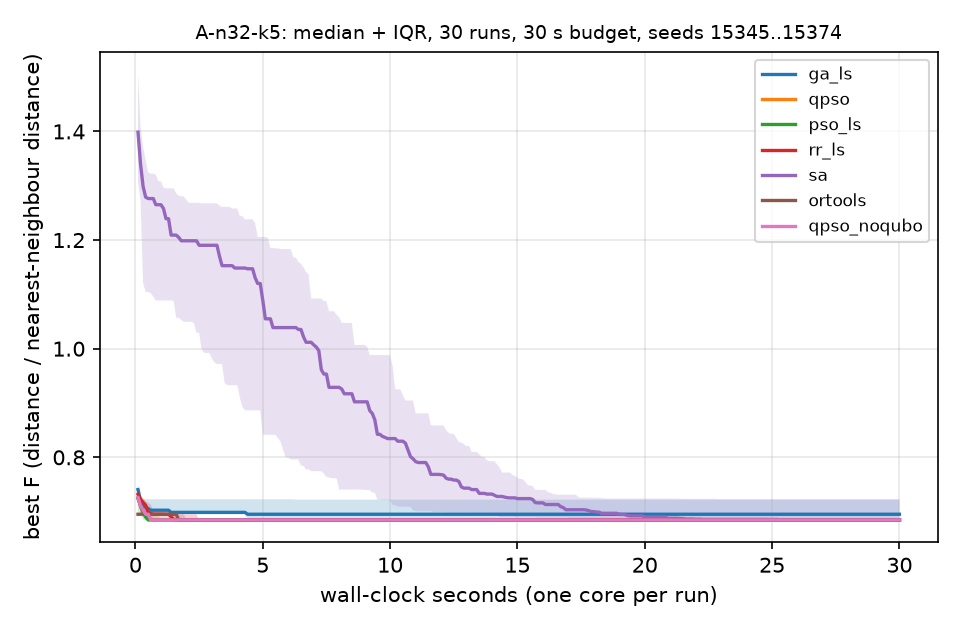
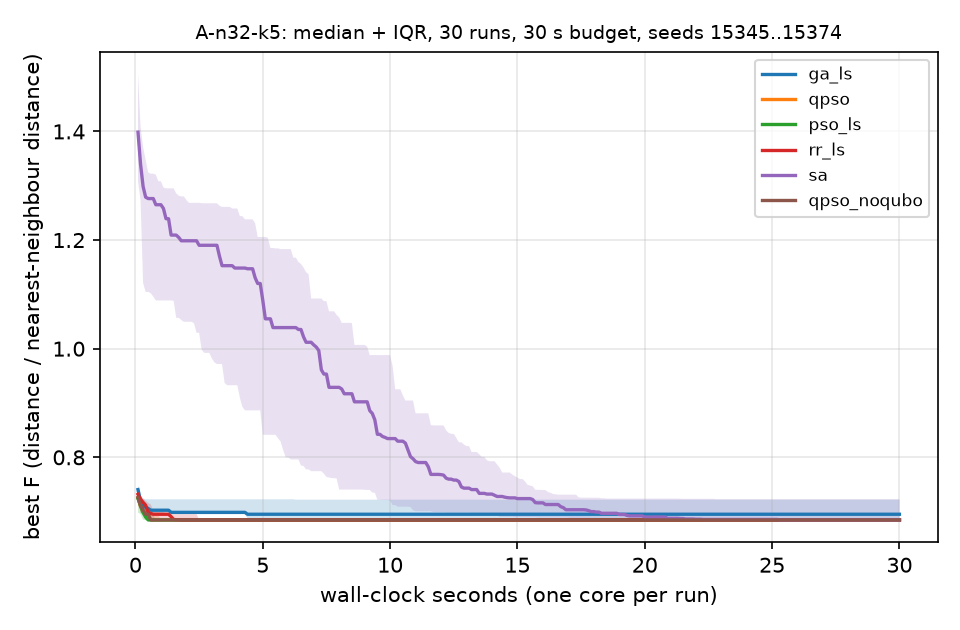
D58 headline = confirm_d54; v1 stats recomputed without the OR-Tools rows; runner-only rule documented; summary rewritten (scaling_v2 pending)

Changed region(s): [[0.1562, 0.8143, 0.9375, 0.8444], [0.7812, 0.3016, 0.9688, 0.3921], [0.125, 0.7841, 0.1562, 0.8143]]

diff --git a/backend/app/services/results_service.py b/backend/app/services/results_service.py
@@ -19,11 +19,20 @@ FILE_TYPES = {".png": "image/png", ".svg": "image/svg+xml", ".csv": "text/csv", 
 
 
 # Benchmark Studio opens the first item: headline first, then the supporting experiments.
-ORDER = ["bench_core_v1", "p_small", "ablation", "ablation_evals", "alpha_sweep", "scaling"]
+ORDER = ["confirm_d54", "bench_core_v1", "p_small", "scaling_v2", "ablation", "ablation_evals", "alpha_sweep"]
 MERGED = {"bench_core_v1_noqubo": "bench_core_v1"}      # supplementary rows shown inside another table (D45)
+SUPERSEDED = {"scaling": "scaling_v2"}                   # D57: mixed CPU conditions; replaced
+# D57/D58: rows that ran under different CPU conditions from the rest of their table are not served
+EXCLUDED_ROWS = {"bench_core_v1": {"ortools": "OR-Tools rows re-run at full speed after D55 while the other rows "
+                                              "ran throttled (D57); OR-Tools is compared in confirm_d54 instead"}}
+TITLES = {"confirm_d54": "Headline (D58): equal conditions, new seeds, 30 runs, Holm-corrected",
+          "bench_core_v1": "v1: QPSO-noQUBO (adaptive alpha) vs metaheuristics, all rows under equal throttling",
+          "scaling_v2": "Scaling: QPSO-noQUBO (tuned) vs OR-Tools, equal conditions"}
 
 
 def kind_of(name: str) -> str:
+    if name in SUPERSEDED and (TABLES / f"{SUPERSEDED[name]}_summary.csv").exists():
+        return f"superseded (by {SUPERSEDED[name]})"
     if name in MERGED:
         return f"supplement (merged into {MERGED[name]})"
     if name.startswith("d51_"):
@@ -49,7 +58,7 @@ def list_benchmarks(include_all: bool = False) -> list[dict]:
         if not include_all and kind_of(name) != "benchmark":
             continue
         meta = _meta(name)
-        out.append({"name": name, "title": meta.get("description") or name, "kind": kind_of(name),
+        out.append({"name": name, "title": TITLES.get(name) or meta.get("description") or name, "kind": kind_of(name),
                     "runs": meta.get("runs_planned"), "budgets": meta.get("budgets"), "records": meta.get("records")})
     return out
 
@@ -67,6 +76,9 @@ def benchmark(name: str) -> dict:
         raise ApiError(404, "NOT_FOUND", f"benchmark {name} not found")
     meta = _meta(name)
     summary = pd.read_csv(summ)
+    excluded = EXCLUDED_ROWS.get(name, {})
+    if excluded:
+        summary = summary[~summary.algo.isin(list(excluded))].reset_index(drop=True)
     refs = meta.get("references") or [meta.get("reference", "qpso")]
     for k, ref in enumerate(refs):
         wil = TABLES / (f"{name}_wilcoxon.csv" if k == 0 else f"{name}_wilcoxon_{ref}.csv")
@@ -92,16 +104,21 @@ def benchmark(name: str) -> dict:
                                for r in summary.itertuples()]
     out = {"table": _records(summary),
            "figures": [f"figures/{p.name}" for p in sorted(FIGURES.glob(f"{name}_*.png"))],
-           "meta": {**meta, "kind": kind_of(name), "runs": meta.get("runs_planned"),
+           "meta": {**meta, "kind": kind_of(name), "runs": meta.get("runs_planned"), "excluded_rows": excluded,
                     "budget": ", ".join(f"{b:g} {'s' if t == 'time' else 'evals'}"
                                         for t, b in sorted(set(zip(summary.budget_type, summary.budget))))}}
     for extra in ("wilcoxon", "friedman", "chain", *[f"wilcoxon_{r}" for r in refs[1:]]):
         p = TABLES / f"{name}_{extra}.csv"
         if p.exists() and p.stat().st_size > 1:
             try:
-                out[extra] = _records(pd.read_csv(p))
+                t = pd.read_csv(p)
             except pd.errors.EmptyDataError:
                 out[extra] = []
+                continue
+            for col in ("other", "algo"):           # keep excluded rows out of the side tables too
+                if col in t and excluded:
+                    t = t[~t[col].isin(list(excluded))]
+            out[extra] = _records(t)
     return out
 
 

diff --git a/scripts/run_bench.py b/scripts/run_bench.py
@@ -42,6 +42,10 @@ def report(exp: dict, runs_dir: Path = RUNS, tables: Path = TABLES, figures: Pat
                  and r["algo"] in imp.get("algorithms", [r["algo"]])]
         bad += [r for r in read_records(runs_dir / f"{imp['exp']}.infeasible.jsonl")
                 if r["instance"] in imp.get("instances", [r["instance"]])]
+    excl = set(exp.get("exclude_algos") or [])         # D58: rows run under other CPU conditions (D57)
+    if excl:
+        recs = [r for r in recs if r["algo"] not in excl]
+        bad = [r for r in bad if r["algo"] not in excl]
     if not recs:
         raise SystemExit(f"no records in {runs_dir / f'{name}.jsonl'}")
     df = stats.to_frame(recs)
@@ -81,6 +85,7 @@ def report(exp: dict, runs_dir: Path = RUNS, tables: Path = TABLES, figures: Pat
         "budgets": [{"type": b["type"], "value": b["value"], "algorithms": b["algorithms"]} for b in exp["budgets"]],
         "instances": exp["instances"],
         "import_runs": exp.get("import_runs") or [],
+        "excluded_algos": sorted(excl),
         "seeds": sorted({int(r["seed"]) for r in recs}),
         "config_hashes": {f"{a}|{bt}|{b:g}": sorted(g.config_hash.unique().tolist())
                           for (a, bt, b), g in df.groupby(["algo", "budget_type", "budget"])},

diff --git a/results/RESULTS_SUMMARY.md b/results/RESULTS_SUMMARY.md
@@ -2,37 +2,32 @@
 
 All numbers come from `results/tables/`; every quotable number has an ID in `results/SLIDE_NUMBERS.md`.
 Gaps are % above the best-known solution. "Significant" means Holm–Bonferroni-corrected Wilcoxon p < 0.05 within that table.
+**Engine shipped in the app = engine benchmarked below:** QPSO-noQUBO (tuned), i.e. QUBO slot off, fixed α = 0.3 (D59).
 
-> **Known issue (D57), resolution pending.** Experiments launched in the background ran with ≈2.3–2.5× less CPU than those started by the standalone runner (per-run CPU calibration). Inside one group the comparisons are fair. The OR-Tools rows of bench_core_v1 and scaling (re-run after the D55 fix) ran at full speed, while the other algorithms in those tables ran throttled, so **claim 3 and the OR-Tools comparisons under Scaling below favour OR-Tools and must not be quoted until they are re-run under equal conditions.** The D54 confirmation (below) ran all algorithms under the same conditions.
+## Headline (D58): equal conditions, new seeds, 30 runs per algorithm and instance
+Source: `confirm_d54` (all algorithms launched the same way, seeds 65345–71374, Holm correction over 18 comparisons, 0 infeasible, 0 fleet violations).
 
-## Headline claims
-(bench_core_v1: 30 runs per algorithm and instance; 30 s for n <= 80, 60 s for CMT5 and X-n101; "significant" = Holm-corrected p < 0.05. IDs refer to `SLIDE_NUMBERS.md`.)
+**Under equal conditions, QPSO-noQUBO (tuned):**
+- **significantly beats tuned PSO+LS** on A-n63-k9, A-n80-k10, CMT5 and X-n101-k25 (mean paired difference −0.33, −2.11, −1.72 and −0.28 gap points) *(CP-<instance>-pso_tuned)*;
+- **significantly beats Google OR-Tools** on A-n63-k9 (0.94% vs 1.55%), A-n80-k10 (1.18% vs 1.71%) and X-n101-k25 (1.83% vs 5.59%);
+- **ties OR-Tools** (no significant difference) on A-n32-k5 and CMT5;
+- **is behind OR-Tools** on CMT1 (0.26% vs 0.00%) *(C-<instance>-<algo>, CP-<instance>-ortools)*.
 
-1. **QPSO-noQUBO significantly beats GA+LS, SA and random-restart+LS:**
-   - **GA+LS** on A-n32-k5, A-n63-k9, A-n80-k10 and CMT1 *(PN-<instance>-ga_ls)*;
-   - **SA** on all six core instances *(PN-<instance>-sa)*;
-   - **random-restart+LS** on A-n63-k9, A-n80-k10, CMT1, CMT5 and X-n101-k25 *(PN-<instance>-rr_ls)*.
-2. **Statistically level with PSO+LS.** There is no significant difference on any instance; the smallest Holm-corrected p is 0.141, on CMT1 *(PN-<instance>-pso_ls)*.
-3. **[Confounded, D57; do not quote]** **Google OR-Tools (industry reference, C++) is ahead** on A-n63-k9 (1.54% vs 2.07%), A-n80-k10 (1.93% vs 4.45%), CMT1 (0.000% vs 0.005%) and CMT5 (7.60% vs 10.90%). QPSO-noQUBO is ahead on X-n101-k25 (2.66% vs 5.45%). They are tied on A-n32-k5 (0.00% each) *(G-<instance>-ortools, G-<instance>-qpso_noqubo, PN-<instance>-ortools)*.
-4. **Reaches the proven optimum on the P instances** in 10/10 (P-n16-k8), 9/10 (P-n19-k2) and 10/10 (P-n22-k8) runs, with a median time to the optimum ≤ 0.05 s (0.009, 0.046 and 0.015 s). The MILP proves optimality only on P-n16-k8, in 209 s *(E-P-n16-k8-*, E-P-n19-k2-*, E-P-n22-k8-*)*.
+On A-n32-k5 and CMT1, tuned PSO+LS has the lower mean (0.00% vs 1.28%; 0.05% vs 0.26%), but the difference is not significant (Holm p = 0.056 and 0.080).
 
-## D54 confirmatory round (same launch conditions for all algorithms, new seeds)
-- **Tuning:** on A-n44-k6 and A-n69-k9 only, 3 configurations each, under a rule fixed in advance. It chose fixed α = 0.3 for QPSO-noQUBO and the current (w, c1, c2) for PSO+LS. The choice was committed before the confirmation run (`configs/experiments/d54_choice.yaml`).
-- **Confirmation:** 30 runs per algorithm and instance, seeds 65345–71374, bench_core budgets. Holm correction over 18 comparisons; 0 infeasible; 0 fleet violations; final throughput audit flags 0.
-- **Pre-committed rule result:** tuned QPSO-noQUBO is **significantly better than tuned PSO+LS on A-n63-k9, A-n80-k10, CMT5 and X-n101-k25** (Holm p = 0.018, < 0.001, < 0.001 and 0.013). The mean paired differences are −0.33, −2.11, −1.72 and −0.28 gap points *(CP-<instance>-pso_tuned)*. It is not significantly different on A-n32-k5 (1.28% vs 0.00%, Holm p = 0.056) or CMT1 (0.26% vs 0.05%, Holm p = 0.080), where its mean is the worse of the two.
-- **Against OR-Tools under equal launch conditions:**
-  - tuned QPSO-noQUBO is significantly better on A-n63-k9 (0.94% vs 1.55%), A-n80-k10 (1.18% vs 1.71%) and X-n101-k25 (1.83% vs 5.59%);
-  - OR-Tools is significantly better on CMT1 (0.00% vs 0.26%);
-  - no significant difference on A-n32-k5 or CMT5 *(C-…, CP-<instance>-ortools)*.
-- **Default α unchanged.** The confirmation did not include the default (adaptive α) arm on the new seeds, so it shows no improvement over the default. The pre-committed rule keeps adaptive α as the app default. Comparing these numbers with bench_core_v1 is not valid (D57: different CPU conditions).
+**Earlier results that still stand:**
+- **v1 wins over the other metaheuristics** (bench_core_v1, QPSO-noQUBO with adaptive α; all rows under equal throttling). QPSO-noQUBO significantly beats:
+  - GA+LS on A-n32-k5, A-n63-k9, A-n80-k10 and CMT1;
+  - SA on all six core instances;
+  - random-restart+LS on A-n63-k9, A-n80-k10, CMT1, CMT5 and X-n101-k25 *(PN-<instance>-ga_ls / -sa / -rr_ls)*.
+- **Heuristic vs exact on the P instances** (p_small, QPSO-noQUBO with adaptive α, measured before D59): it reaches the proven optimum in 10/10, 9/10 and 10/10 runs on P-n16-k8, P-n19-k2 and P-n22-k8, with a median time ≤ 0.05 s. The MILP (CBC, 600 s) proves optimality only on P-n16-k8, in 209 s *(E-…)*.
+
+## Scaling (scaling_v2: equal conditions, new seeds, 10 runs, 0.6 s per customer capped at 300 s)
+SCALING_V2_PENDING
 
 ## Other measured results
-- **0 infeasible solutions and 0 fleet-limit violations** in the 1,260 bench_core_v1 runs *(H1, H2)*.
-- **Local search is what makes swarm search work on CVRP:** the memetic LS row of the ablation lowers the gap by 16.7 points on A-n63-k9 and 16.4 on A-n80-k10 (Holm p = 0.027 on both). No other QPSO component has a significant effect *(A-<instance>-a4_memetic_ls and the other A- rows)*.
-- **Scaling** (0.6 s per customer, capped at 300 s; the OR-Tools numbers are confounded, D57):
-  - n = 100 (60 s): QPSO 3.02%, OR-Tools 5.45%;
-  - n = 199 (120 s): QPSO 3.85%, OR-Tools 3.08%;
-  - n = 501 (300 s): cluster-first QPSO 3.40%, OR-Tools 1.43% *(S-…)*.
+- **0 infeasible solutions and 0 fleet-limit violations** in all benchmark tables *(H1, H2)*.
+- **Local search is what makes swarm search work on CVRP:** memetic LS lowers the gap by 16.7 points on A-n63-k9 and 16.4 on A-n80-k10 (Holm p = 0.027 on both). No other QPSO component has a significant effect in the ablation *(A-…)*.
 - **QUBO formulation:** neal (a classical annealer) returns a feasible route order in 100% of cases and the optimal order on 50–80% of 20 CVRPLIB routes, depending on the penalty weight *(Q0–Q2)*.
 - **Road-network local search** on Hyderabad-60: median 128 → 3.0 ms per call (D46) *(D46)*.
 
@@ -45,24 +40,23 @@ These are features of the platform. They are not performance claims.
 - **Also included:** time-dependent shortest path (Dijkstra / A*) for the ambulance scenario (`engine/qflux/sp/`).
 
 ## What we can NOT claim
-
 - **No quantum speedup or quantum advantage.** QPSO is a classical algorithm inspired by quantum mechanics. The QUBO slot ran on a classical simulated annealer.
-- **QPSO is not better than PSO.** With local search, QPSO-noQUBO and PSO+LS are statistically indistinguishable on all 6 instances. Without local search, at equal evaluations, plain QPSO is worse than plain PSO on A-n80 (144.2% vs 125.5%, Holm p = 0.004); on A-n63 the difference is not significant. *(ablation_evals_summary.csv)*
-- **The QUBO slot does not help the search.** QPSO-full is significantly worse than QPSO-noQUBO on A-n63, A-n80 and X-n101, and adding the slot has no significant effect in the ablation.
+- **The QUBO slot does not help the search.** QPSO-full (slot on) is significantly worse than QPSO-noQUBO on A-n63, A-n80 and X-n101 in v1, and adding the slot has no significant effect in the ablation.
 - **The QUBO solver is slower than classical methods, and not always optimal.** On the same routes, 2-opt found the optimum on 100% of CVRPLIB routes in about 0.03 ms; neal took about 140 ms and found it on 50–80%.
-- **We do not beat OR-Tools in general.** OR-Tools (the industry reference) is significantly better than QPSO-noQUBO on A-n63, A-n80, CMT1 and CMT5 and ranks first at 30 s (1.50). It is also better at n = 199 (3.08% vs 3.85%) and n = 501 (1.43% vs 3.40%). QPSO-noQUBO is better only on X-n101 at 60 s (2.66% vs 5.45%).
 - **No optimality guarantee.** These are heuristics; gaps are measured against best-known solutions.
 - **Traffic is simulated.** Hyderabad uses a road graph with BPR time-of-day profiles, not live traffic data.
 
 ## Methods notes
-
 - **Budgets:** time budgets only for the comparisons, because local-search moves are not counted as evaluations (D39). 30 s for n ≤ 80, 60 s for n > 80 (D43); scaling 0.6 s per customer, capped at 300 s (D50).
-- **Runs and seeds:** 30 runs per (algorithm, instance) in bench_core_v1, 10 in the ablation, α sweep, scaling and P runs. Seed = 12345 + 1000 × instance index + run index; every algorithm sees the same seeds.
+- **Runs and seeds:** 30 runs per (algorithm, instance) in confirm_d54 and bench_core_v1; 10 in the ablation, α sweep, scaling and P runs. Within a table, every algorithm sees the same seeds.
+- **Tuning (D54):** α for QPSO-noQUBO and (w, c1, c2) for PSO+LS, 3 configurations each, chosen on the static CVRPLIB tuning instances A-n44-k6 and A-n69-k9 only, under a rule fixed in advance. The choice was committed before the confirmation run. The Hyderabad and SynthCity road-network instances use the same α = 0.3 without separate tuning.
 - **Fleet limit:** Augerat A/P instances use exactly k vehicles, because their published optima assume it; CMT and X instances have no limit (D38). Runs over the limit get no gap and are counted.
-- **Hardware:** one i7-1360P laptop (4 performance + 8 efficiency cores), Balanced power plan, 11 parallel single-threaded workers. On the hybrid CPU, per-run speed varied up to about 1.26–1.29× (D44). Algorithms were interleaved per seed, so this is noise, not bias. A pre-registered check pinned to performance cores (D49) was not run.
-- **Memory audit (D51):** 25 runs slowed by low memory were re-run with the same seeds (two passes); the final audit flags 0.
+- **CPU conditions (D57):** Windows throttled background-launched processes to about 2.3–2.5× less CPU. Every comparison above is between runs launched the same way. confirm_d54, scaling_v2 and p_small ran via the standalone runner; bench_core_v1 and the ablation ran with all rows throttled. Since D57 the runner is the only way to run experiments (`docs/RUNNING_EXPERIMENTS.md`).
+  - Minor caveat: 26 D51 replacement runs in bench_core_v1, the ablation and the α sweep ran faster than their peers.
+  - bench_core_v1's OR-Tools rows are excluded from its table for this reason; OR-Tools is compared in confirm_d54.
+- **Hardware:** one i7-1360P laptop (4 performance + 8 efficiency cores), Balanced power plan, 11 parallel single-threaded workers. Per-run speed varied up to about 1.26–1.29× on the hybrid CPU (D44); algorithms were interleaved per seed.
+- **Memory audit (D51):** runs slowed by low memory were re-run with the same seeds; the final audits flag 0.
 - **Fixes applied before the final numbers:**
-  - local search uses exact O(1) delta costs (D41; identical results, about 130× faster);
-  - OR-Tools costs registered as a C++ matrix (D55; only OR-Tools rows were re-run).
-- **Road-network local search (D46)** is not move-for-move identical to the exact kernel: final cost ratio 1.0022 on average per tour.
-- **Tuning:** only on the tuning instances A-n44-k6 and A-n69-k9, with at most 4 configurations; never on test instances.
+  - local search uses exact O(1) delta costs (D41; identical results);
+  - OR-Tools costs registered as a C++ matrix (D55);
+  - road-network local search (D46) is not identical to the exact kernel: final cost ratio 1.0022 on average per tour.

diff --git a/docs/RUNNING_EXPERIMENTS.md b/docs/RUNNING_EXPERIMENTS.md
@@ -1,0 +1,43 @@
+# Running experiments (rule D57: the standalone runner is the only way)
+
+Every timed experiment runs through `scripts/runner.py`, started in **its own console window**. Never launch
+`run_bench.py` (or any timed run) as a background job of an IDE, agent shell or terminal tab.
+
+**Why:** on Windows, background-launched processes were throttled to about 2.3–2.5× less CPU than processes
+in their own window (per-run CPU calibration: ≈1.45 M vs ≈3.5 M ops/s; D57). Mixing the two in one comparison
+makes a time-budget benchmark unfair.
+
+## Start
+```powershell
+$repo = "C:\path\to\Quantum-Route"; $py = "$repo\.venv\Scripts\python.exe"
+Start-Process -FilePath $py -ArgumentList "scripts/runner.py --phase <phase>" -WorkingDirectory $repo -WindowStyle Minimized
+```
+Phases are listed in `PHASES` in `scripts/runner.py`; each is an ordered list of steps (benchmarks, audits).
+
+What the runner does:
+- **Lock:** refuses to start if another runner is alive (`results/run_info/runner.lock`).
+- **Memory:** refuses to start with < 4 GB free. Before each step it waits for ≥ 2 GB; inside a benchmark the
+  harness pauses new runs below 2 GB. Free memory is logged every minute to `results/run_info/mem_log.csv`.
+- **Keep-awake:** asks Windows not to sleep for the runner's whole lifetime. Closing the lid can still suspend
+  the laptop; a time-budget run longer than 1.10× its budget is then marked invalid and re-run on resume.
+- **Logs:** progress in `results/logs/queue.log`, per-step logs in `results/logs/<step>.log`, status in
+  `results/run_info/runner_status.json`. It stops at the first failing step.
+
+## Stop
+```powershell
+powershell -NoProfile -File scripts/stop_runner.ps1
+```
+This kills the runner's whole process tree and verifies that no python or cbc process is left.
+
+## After a run
+1. `python scripts/audit_throughput.py --exps <exp> --no-arrivals --out d51_audit_<exp>` flags runs below
+   0.75× the median throughput (D51). Re-run flagged runs with `scripts/d51_replace.py` and a runner phase.
+2. `python scripts/check_calibration.py <exp>` checks that every run's 0.2 s CPU calibration is in the
+   full-speed range.
+3. `python scripts/run_bench.py --exp <exp> --report-only` rebuilds the tables and figures, then
+   `python scripts/make_slide_numbers.py` and `python scripts/export_api_json.py` refresh the numbers and the
+   demo-mode exports.
+
+## Machine checklist
+Plugged in, lid open, browsers and other heavy applications closed, nothing else running. Use the same power
+plan for every run in one comparison (the plan is recorded in `<exp>.run_info.json`).
